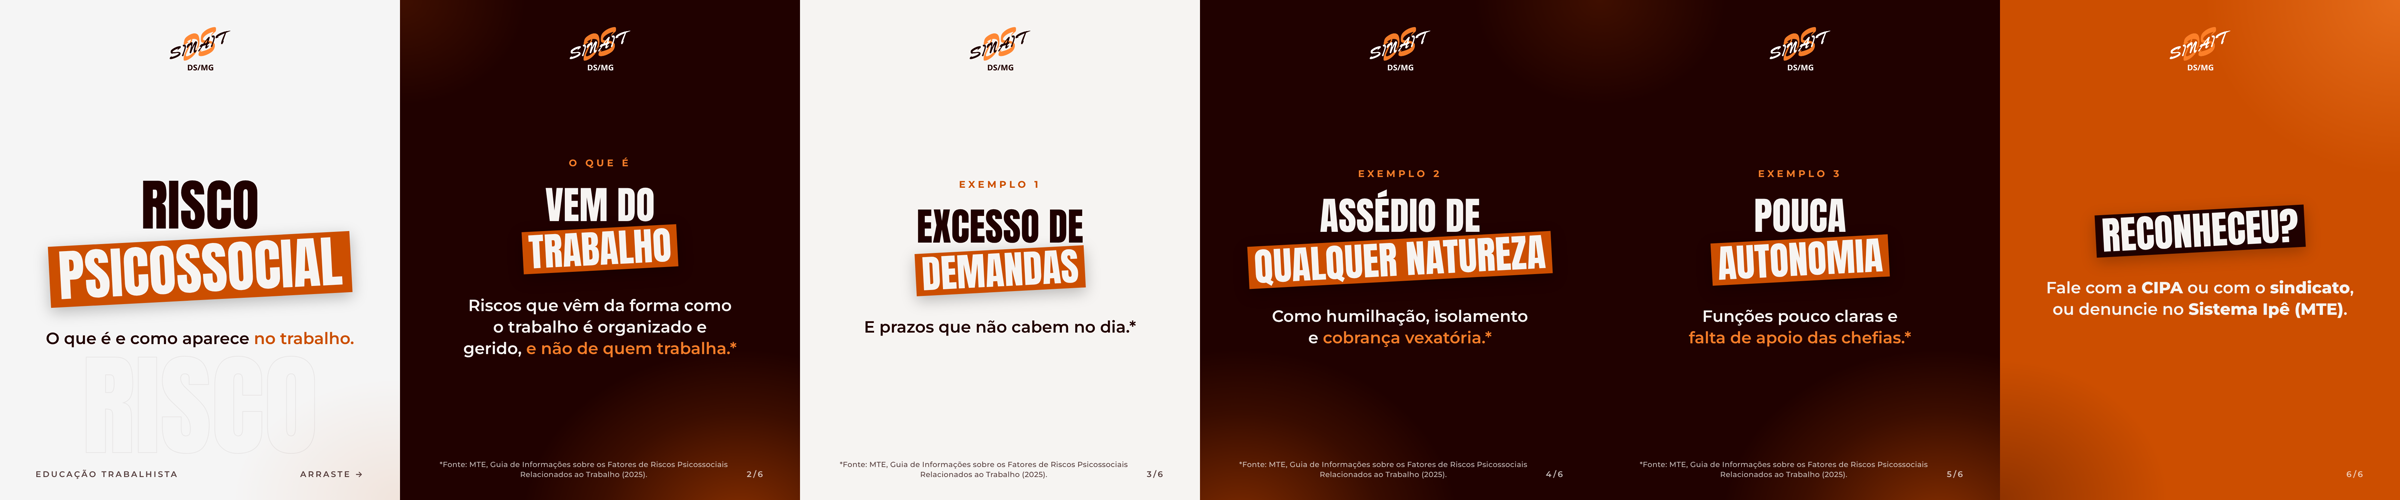
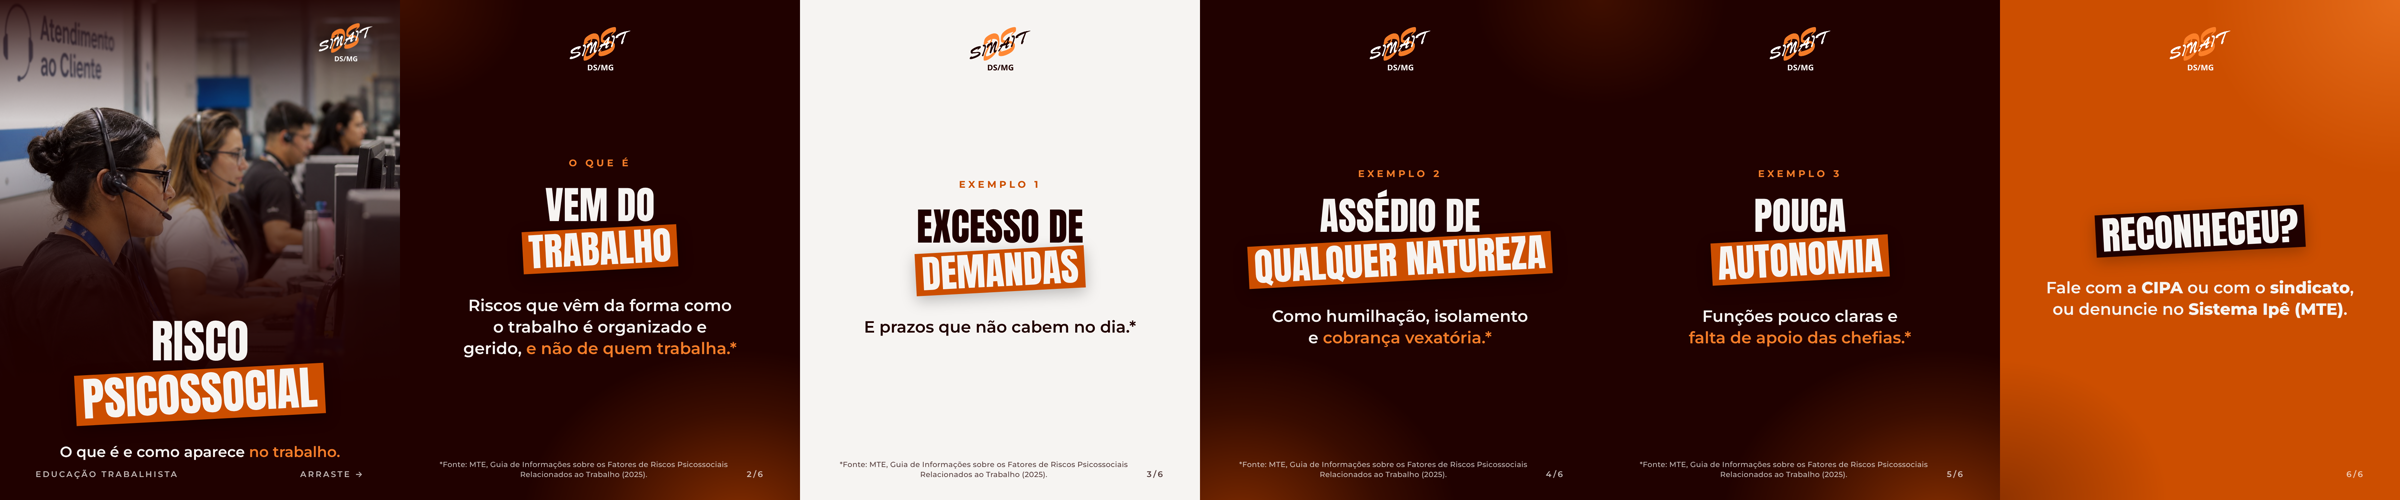
Mescla capas com foto e tipográficas nos posts de novembro
Claude-Session: https://claude.ai/code/session_011HvaTJFJJFHDm1z7jLavn3

Changed region(s): [[0.0, 0.0, 0.1875, 1.0]]

diff --git a/posts-novembro-2026/index.html b/posts-novembro-2026/index.html
@@ -45,6 +45,15 @@ body.export .wrap { width: 1080px; height: 1350px; aspect-ratio: auto; }
 .s-laranja { background: var(--laranja); }
 .s-laranja::before { background: radial-gradient(70% 50% at 100% 0%, rgba(243,124,40,.65) 0%, transparent 70%), radial-gradient(60% 40% at 0% 100%, rgba(32,1,0,.35) 0%, transparent 70%); }
 .slide > * { position: relative; }
+/* capa com foto: foto no alto, escurecendo para baixo; texto na parte escura */
+.s-foto { background: var(--preto); }
+.s-foto > .foto { position: absolute; inset: 0; width: 100%; height: 100%; object-fit: cover; }
+.s-foto::before { z-index: 1; background: linear-gradient(180deg, rgba(32,1,0,.92) 0%, rgba(32,1,0,.45) 14%, rgba(32,1,0,.15) 24%, rgba(32,1,0,.35) 38%, rgba(32,1,0,.9) 58%, var(--preto) 78%); }
+.s-foto > :not(.foto) { z-index: 2; }
+.s-foto .body { justify-content: flex-end; gap: 36px; padding-bottom: 20px; }
+.s-foto .lead { font-size: 40px; }
+.s-foto h1 { font-size: 124px !important; }
+.s-foto .logo { position: absolute; top: 60px; right: 72px; margin: 0; width: 150px; filter: drop-shadow(0 4px 18px rgba(0,0,0,.6)); }
 
 .logo { width: 170px; margin-top: 70px; flex: none; }
 .body { flex: 1; display: flex; flex-direction: column; justify-content: center; align-items: center; gap: 44px; width: 100%; padding-bottom: 40px; }
@@ -101,7 +110,7 @@ const lista = (itens) => `<ul class="lista">${itens.map(i => `<li><span class="s
 
 const POSTS = [
   { id: '04-11-discriminacao-no-trabalho', data: '04/11', nome: 'Carrossel · Discriminação no trabalho: o que a lei proíbe', slides: [
-    { bg: 'branco', ghost: 'Igualdade', foot: ['Educação trabalhista', 'Arraste →'], html: `
+    { bg: 'foto', foto: '04-11', fotoStyle: 'transform:translateY(-25%)', foot: ['Educação trabalhista', 'Arraste →'], html: `
       <h1>Discriminação<br><span class="faixa">no trabalho</span></h1>
       <p class="lead">Novembro: mês de falar de <span class="lar">igualdade de oportunidades.</span></p>` },
     { bg: 'escuro', foot: ['<span class="src">*CF/88, art. 7º, XXX.</span>', '2/6'], html: `
@@ -125,14 +134,14 @@ const POSTS = [
   ]},
 
   { id: '06-11-nr1-saude-mental', data: '06/11', nome: 'Post único · NR-1: saúde mental também é risco do trabalho', slides: [
-    { bg: 'escuro', ghost: 'NR-1', foot: ['<span class="src">Fonte: MTE, NR-1, Portarias nº 1.419/2024 e nº 765/2025.</span>', ''], html: `
+    { bg: 'foto', foto: '06-11', fotoStyle: 'transform:translateY(-22%)', foot: ['<span class="src">Fonte: MTE, NR-1, Portarias nº 1.419/2024 e nº 765/2025.</span>', ''], html: `
       <span class="eyebrow">NR-1</span>
       <h1 style="font-size:132px">Saúde mental<br><span class="faixa">também é risco</span><br>do trabalho</h1>
       <p class="lead">Desde 26/05/2026, a NR-1 exige que as empresas gerenciem fatores como <span class="lar">sobrecarga e assédio.</span></p>` },
   ]},
 
   { id: '10-11-riscos-psicossociais', data: '10/11', nome: 'Carrossel · Riscos psicossociais: o que são e como aparecem', slides: [
-    { bg: 'branco', ghost: 'Risco', foot: ['Educação trabalhista', 'Arraste →'], html: `
+    { bg: 'foto', foto: '10-11', fotoStyle: 'transform:translateY(-12%)', foot: ['Educação trabalhista', 'Arraste →'], html: `
       <h1>Risco<br><span class="faixa">psicossocial</span></h1>
       <p class="lead">O que é e como aparece <span class="lar">no trabalho.</span></p>` },
     { bg: 'escuro', foot: [`<span class="src">${GUIA}</span>`, '2/6'], html: `
@@ -197,15 +206,15 @@ const POSTS = [
   ]},
 
   { id: '25-11-cipa-assedio', data: '25/11', nome: 'Post único · A CIPA também cuida do assédio (extra sugerido)', slides: [
-    { bg: 'branco', ghost: 'CIPA', foot: ['<span class="src">Fonte: Lei nº 14.457/2022, art. 23.</span>', ''], html: `
+    { bg: 'foto', foto: '25-11', fotoStyle: 'transform:translateY(-16%)', foot: ['<span class="src">Fonte: Lei nº 14.457/2022, art. 23.</span>', ''], html: `
       <h1 style="font-size:136px">A CIPA também<br><span class="faixa">cuida do assédio</span></h1>
       <p class="lead">Desde a Lei 14.457/2022, a CIPA inclui a prevenção e o combate ao <span class="lar">assédio sexual e a outras formas de violência</span> no trabalho.</p>` },
   ]},
 
   { id: '26-11-96-anos-ministerio-do-trabalho', data: '26/11', nome: 'Post único · 96 anos do Ministério do Trabalho', slides: [
-    { bg: 'escuro', foot: ['<span class="src">Fontes: MTE/SIT, balanço 2025; MTE, Inspeção do Trabalho: ações fiscais e afastamentos 2025.</span>', ''], html: `
-      <div class="stat" style="font-size:400px;line-height:.85">96</div>
-      <h2 style="font-size:92px">anos do<br><span class="faixa">Ministério do Trabalho</span></h2>
+    { bg: 'foto', foto: '26-11', fotoStyle: 'transform:translateY(-20%)', foot: ['<span class="src">Fontes: MTE/SIT, balanço 2025; MTE, Inspeção do Trabalho: ações fiscais e afastamentos 2025.</span>', ''], html: `
+      <h2 style="font-size:150px"><span class="lar">96 anos</span> do</h2>
+      <h2 style="font-size:92px;margin-top:-30px"><span class="faixa">Ministério do Trabalho</span></h2>
       <p class="lead">Só em 2025: <span class="lar">2.772</span> resgatados da escravidão e <span class="lar">4.318</span> crianças e adolescentes afastados do trabalho infantil.</p>` },
   ]},
 
@@ -240,7 +249,8 @@ function slideHTML(post, s, i, n) {
   const cls = s.bg.split(' ').map(b => 's-' + b).join(' ');
   const out = n > 1 ? `${post.id}/slide-${i + 1}.png` : `${post.id}.png`;
   return `<div class="wrap"><section class="slide ${cls}" data-out="${out}">
-    ${s.ghost ? `<div class="ghost">${s.ghost}</div>` : ''}
+    ${s.foto ? `<img class="foto" src="fotos/${s.foto}.jpg" alt="" style="${s.fotoStyle || ''}">` : ''}
+    ${s.ghost && !s.foto ? `<div class="ghost">${s.ghost}</div>` : ''}
     <img class="logo" src="${claro ? 'logo-sinait-dsmg-escuro.png' : 'logo-sinait-dsmg.png'}" alt="SINAIT DS/MG">
     <div class="body">${s.html}</div>
     <div class="foot"><span>${s.foot[0]}</span><span>${s.foot[1]}</span></div>
